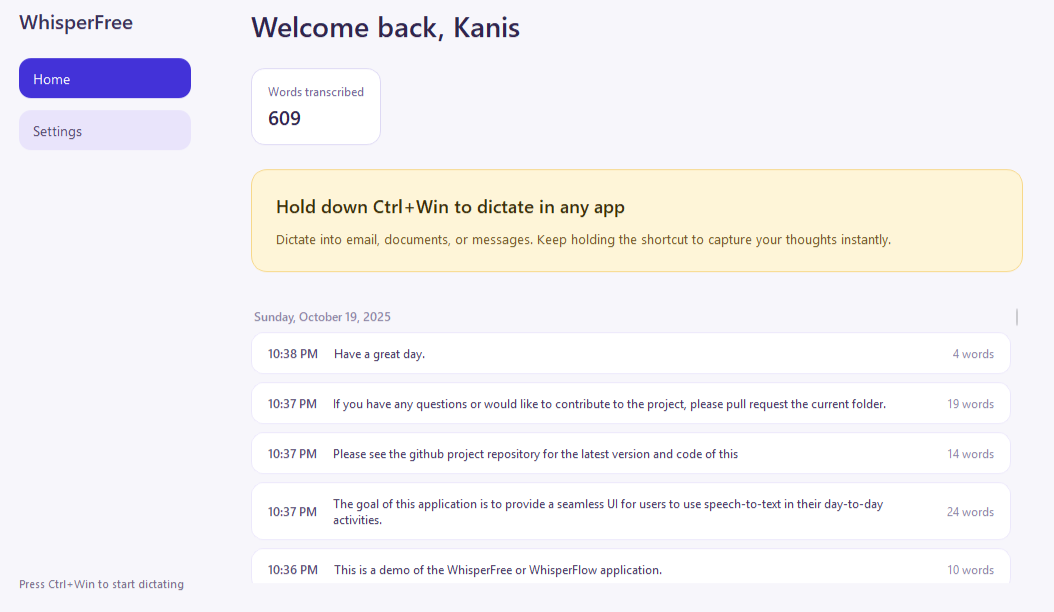
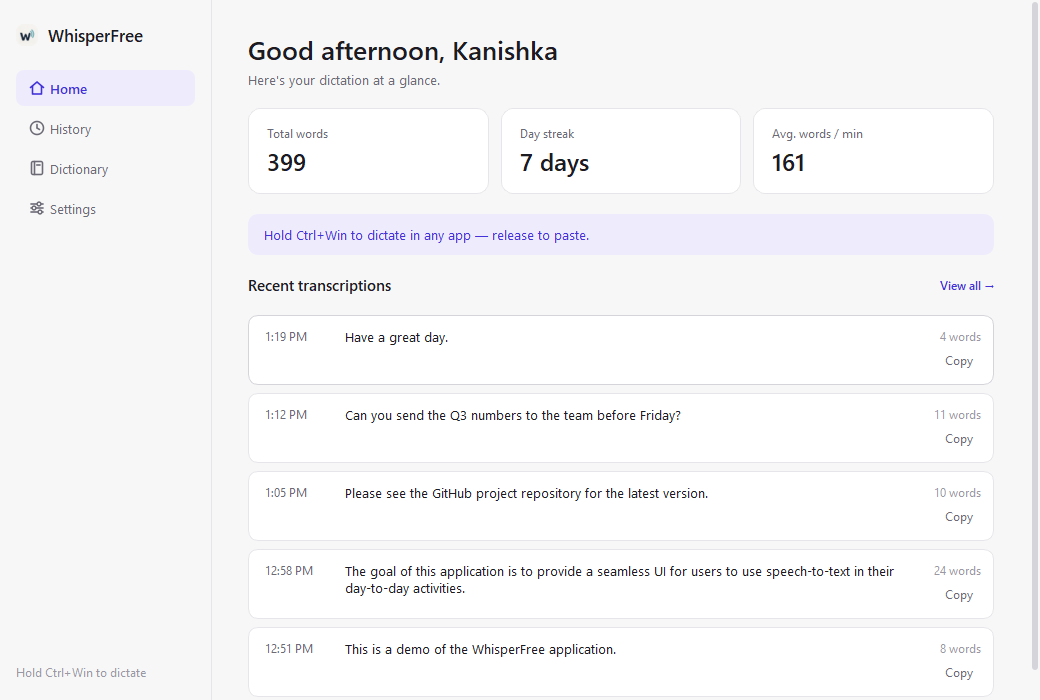
Refresh README and demo screenshot; harden .gitignore
- New demo screenshot of the current control panel (sample data only).
- README: fix Python version contradiction, add dictation sounds and
  tray behaviour, per-section Settings reference, data locations,
  accurate Security & Privacy (key saved to ~/.whisperfree/.env, history
  stored as plain text), rewritten dictation flow, updated layout and
  troubleshooting.
- .gitignore: ignore .env.* (keeping .env.example), app log, pytest cache,
  and local tooling folders.

diff --git a/README.md b/README.md
@@ -1,68 +1,28 @@
 # WhisperFree (WhisperFlow)
 
-WhisperFree is a Windows-first desktop companion that turns push-to-talk speech into clean text ready to paste anywhere. Hold `CTRL+WIN` to capture audio, release to stop, and OpenAI's transcription API (`gpt-transcribe` by default) handles transcription before WhisperFree pastes the result into the field that currently has focus. A minimal overlay shows recording status while a PyQt6 control panel manages microphones, service options, dictionary, and history.
+WhisperFree is a Windows-first desktop companion that turns push-to-talk speech into clean text ready to paste anywhere. Hold `CTRL+WIN` to record, release to stop, and OpenAI's transcription API (`gpt-transcribe` by default) turns your speech into text that WhisperFree pastes into whichever field has focus. A small overlay shows recording status, and a Voquill-style control panel manages your history, dictionary, and settings.
 
-Note: Currently supports Python 3.11 and Python 3.12. 
+Note: Supports Python 3.11 and 3.12 on Windows.
 
-![Alt text](/assets/demo.png)
+![WhisperFree control panel](/assets/demo.png)
 
 ## Features
-- Push-to-talk hotkey (`CTRL+WIN`) with debounce so recordings only begin when both keys are held and stop cleanly when released.
-- OpenAI transcription backend (`gpt-transcribe` by default; `gpt-4o-mini-transcribe` or legacy `whisper-1` selectable) with asynchronous transcription and toast feedback.
-- Persistent transcription history with daily grouping and rolling word counts.
-- Clipboard pipeline that copies the transcript, sends `Ctrl+V`, optionally presses `Enter`, and restores the previous clipboard.
-- PyQt6 system tray UI with microphone selectors, gain control, API testing, and an always-on-top overlay that animates or collapses to a thin idle line.
-- Voquill-style control panel with a sidebar and four pages:
-  - **Home** - greeting, stat cards (total words, day streak, average words/min), and the 5 most recent transcriptions.
+- **Push-to-talk** - hold `CTRL+WIN` to record and release to transcribe, with debounce so recording only starts when both keys are held.
+- **Dictation sounds** - a rising two-note chime when you press the hotkey and a falling one when you release it.
+- **OpenAI transcription** - `gpt-transcribe` by default; `gpt-4o-mini-transcribe` (cheapest) or legacy `whisper-1` can be picked in Settings.
+- **Paste anywhere** - copies the transcript, sends `Ctrl+V`, optionally presses `Enter`, then restores your previous clipboard.
+- **Control panel** with a sidebar and four pages:
+  - **Home** - greeting, stat cards (total words, day streak, average words/min), and your 5 most recent transcriptions.
   - **History** - searchable, day-grouped history with a copy button per entry; large histories render lazily so the page stays responsive.
-  - **Dictionary** - **Terms** are spelling hints (names, product words, acronyms) sent to the transcriber to improve recognition (as `keywords` for `gpt-transcribe`, as a glossary prompt for older models); **Replacements** are whole-word, case-insensitive "when I say X, paste Y" rules applied after transcription (a blank replacement removes the phrase entirely).
-  - **Settings** - General, Audio, Transcription, and OpenAI sections. Toggles, microphone, gain, and language apply instantly; the API key requires Save (or a successful Test) before it is persisted.
-- Launch on startup toggle (Settings -> General) that registers WhisperFree in `HKCU\Software\Microsoft\Windows\CurrentVersion\Run`.
-
-
-## Project Layout
-```
-whisperfree/
-  README.md
-  requirements.txt
-  .env.example
-  .gitignore
-  run_whisperfree.pyw
-  build.py
-  whisperfree/
-    __init__.py
-    app.py
-    config.py
-    hotkeys.py
-    audio.py
-    transcribe.py
-    paste.py
-    overlay.py
-    dictionary.py
-    startup.py
-    models.py
-    ui/
-      __init__.py
-      theme.py
-      window.py
-      home.py
-      history.py
-      dictionary.py
-      settings.py
-      widgets.py
-    utils/
-      __init__.py
-      levels_meter.py
-      logger.py
-  assets/
-    app_icon.ico
-  tests/
-    ...
-```
+  - **Dictionary** - **Terms** are spelling hints (names, product words, acronyms) sent to the transcriber to improve recognition (as `keywords` for `gpt-transcribe`, as a glossary prompt for older models). **Replacements** are whole-word, case-insensitive "when I say X, paste Y" rules applied after transcription; a blank replacement removes the phrase entirely.
+  - **Settings** - General, Audio, Transcription, and OpenAI sections.
+- **Launch on startup** - optional; registers WhisperFree to start when you sign in to Windows.
+- **Recording overlay** - an always-on-top indicator at the bottom of the screen that expands on hover and collapses to a thin line when idle.
+- **Runs from the tray** - closing the control panel keeps WhisperFree running; quit from the tray icon.
 
 ## Getting Started
-1. **Install prerequisites**  
-   Python 3.10-3.12, Git (optional). 
+1. **Install prerequisites**
+   Python 3.11 or 3.12, and Git (optional).
 2. **Clone or download**
    ```powershell
    git clone https://github.com/KRagula/WhisperFlow.git
@@ -75,58 +35,99 @@ whisperfree/
    python -m pip install --upgrade pip
    python -m pip install -r requirements.txt
    ```
-4. **Configure environment**  
-   Copy `.env.example` to `.env` and set `OPENAI_API_KEY` to use the OpenAI transcription API.
+4. **Add your OpenAI API key**
+   Either copy `.env.example` to `.env` and set `OPENAI_API_KEY`, or launch the app and paste the key into Settings -> OpenAI, then click **Test** or **Save key**.
 5. **Launch WhisperFree**
    ```powershell
    python -m whisperfree.app
    ```
-   A tray icon appears; right-click to open settings or quit.
+   A tray icon appears; right-click it to open the control panel or quit.
 
-## Configuration Highlights
-- **Microphone selector** - Populated from PortAudio; refresh to pick up devices that appear mid-session. Defaults back to the system device if the chosen device disappears.
-- **OpenAI transcription** - Settings -> Transcription -> Model picks the model: `gpt-transcribe` (recommended, $0.0045/min), `gpt-4o-mini-transcribe` (cheapest, $0.003/min), or legacy `whisper-1` ($0.006/min). Configs still on the old `whisper-1` default are moved to `gpt-transcribe` automatically.
-- **Input gain slider** - Apply gain live to accommodate quieter microphones.
-- **Overlay toggle** - Enable or hide the recording overlay without restarting the app.
-- **Dictation sounds** - A rising two-note chime plays when you press the hotkey and a falling one when you release it. Turn it off with Settings -> General -> Play sounds.
-- **Paste options** - Toggle `append newline after paste` and tune retry counts in the config file.
-- **Dictionary** - Terms and replacement rules persist to `~/.whisperfree/dictionary.json`; edits from the Dictionary page save immediately, no restart required.
-- **Launch on startup** - The Settings -> General toggle writes (or removes) the `WhisperFree` value under `HKCU\Software\Microsoft\Windows\CurrentVersion\Run`. Running from source it launches `pythonw.exe run_whisperfree.pyw` from the repo root; a PyInstaller build launches the built executable directly.
+To build a standalone Windows executable, run `python build.py` (PyInstaller); the output goes to `dist/WhisperFree/`.
 
-Settings persist to `~/.whisperfree/config.json`. Edit this file directly if you need to script deployments; most values refresh the next time you open settings, but General/Audio/Transcription/OpenAI settings changes in the control panel apply instantly (the OpenAI API key is the exception - it needs Save or a successful Test before it is written to disk).
+## Settings
+Changes in the control panel apply immediately, with no Save button and no restart. The one exception is the API key, which is only stored after **Save key** or a successful **Test**, so a half-typed key is never saved.
 
-WhisperFree keeps its data under `~/.whisperfree/`:
-- `config.json` - app settings
-- `history.jsonl` - transcription history
+- **General**
+  - **Launch on startup** - writes (or removes) the `WhisperFree` value under `HKCU\Software\Microsoft\Windows\CurrentVersion\Run`. Running from source it launches `pythonw.exe run_whisperfree.pyw` from the repo root; a PyInstaller build launches the built executable.
+  - **Show recording overlay** - show or hide the on-screen indicator.
+  - **Play sounds** - the press/release chimes.
+  - **Press Enter after pasting** - append a newline after each transcription.
+- **Audio**
+  - **Microphone** - populated from PortAudio; **Refresh** picks up devices plugged in mid-session. If the chosen device disappears, WhisperFree falls back to the system default.
+  - **Input gain** - boost or reduce microphone volume.
+- **Transcription**
+  - **Model** - `gpt-transcribe` (recommended, $0.0045/min), `gpt-4o-mini-transcribe` (cheapest, $0.003/min), or legacy `whisper-1` ($0.006/min). Configs still on the old `whisper-1` default are moved to `gpt-transcribe` automatically.
+  - **Language** - auto-detect, or pin the language you speak.
+- **OpenAI** - API key with **Show**, **Test**, and **Save key**.
+
+Paste retry counts can be tuned in `config.json`.
+
+## Where Your Data Lives
+Everything stays under `~/.whisperfree/` on your machine:
+- `config.json` - settings
+- `history.jsonl` - transcription history (plain text)
 - `dictionary.json` - dictionary terms and replacement rules
-- `.env` - OpenAI API key (optional; a repo-root `.env` also works)
+- `.env` - your OpenAI API key, if saved from the Settings page (a repo-root `.env` also works)
 - `whisperfree.log` - application log
 
-## Runtime Behaviour
-1. Hold `CTRL+WIN` - the overlay animates and audio buffers at 16 kHz mono.
-2. Release - WhisperFree stops recording, builds a WAV in memory, and sends it to the OpenAI transcription API.
-3. Paste - The recognized text is sent straight to the active window.
-4. Paste - WhisperFree updates the clipboard, issues `Ctrl+V`, optionally presses `Enter`, and restores the previous clipboard contents.
-5. Overlay returns to idle and a toast conveys success, fallbacks, or errors.
+## How a Dictation Works
+1. **Hold `CTRL+WIN`** - the start chime plays, the overlay switches to recording, and audio is captured at 16 kHz mono.
+2. **Release** - recording stops, the stop chime plays, and the audio is packaged as a WAV in memory.
+3. **Transcribe** - the WAV goes to the selected OpenAI model along with your dictionary terms.
+4. **Clean up** - dictionary replacement rules are applied to the text.
+5. **Paste** - WhisperFree puts the text on the clipboard, sends `Ctrl+V` (and `Enter` if enabled), then restores your previous clipboard.
+6. **Record** - the entry is added to History and the Home stats update; the overlay returns to idle.
 
-If an API call fails, WhisperFree surfaces a toast so you can retry once connectivity is restored. Microphone errors, silent recordings, and paste failures are surfaced non-intrusively with retries where sensible.
+Failures such as no speech, API errors, or a paste that didn't go through show a short toast on the overlay instead of interrupting you.
 
 ## Security & Privacy
-- Audio is sent to the OpenAI transcription API; recordings are held in memory only for the duration of the request.
-- No recordings are saved by default (toggle the debug path in code if required).
-- Clipboard contents are restored by default after pasting.
-- API keys stay in environment variables; nothing secret is written to disk unless you choose to export it.
+- Audio is sent to OpenAI for transcription and held in memory only for the duration of the request; recordings are never written to disk.
+- Transcription history is stored locally as plain text in `~/.whisperfree/history.jsonl`. Delete the file to clear it.
+- Your API key is read from the environment or a `.env` file. Saving it from the Settings page writes it to `~/.whisperfree/.env`. `.env` is git-ignored; never commit it.
+- Clipboard contents are restored after each paste.
+
+## Project Layout
+```
+WhisperFlow/
+  README.md
+  requirements.txt
+  .env.example
+  run_whisperfree.pyw     # windowless launcher used by Launch on startup
+  build.py                # PyInstaller build
+  assets/
+    app_icon.ico
+    demo.png
+  whisperfree/
+    app.py                # controller: hotkey -> record -> transcribe -> paste
+    config.py             # settings + migrations
+    models.py             # transcription models and languages
+    hotkeys.py            # Ctrl+Win push-to-talk listener
+    audio.py              # microphone capture
+    sounds.py             # press/release chimes
+    transcribe.py         # OpenAI transcription client
+    dictionary.py         # terms + replacement rules
+    history.py            # history store, streak and WPM stats
+    paste.py              # clipboard + Ctrl+V
+    startup.py            # Launch on startup (Windows Run key)
+    overlay.py            # recording overlay
+    ui/                   # control panel (theme, window, home, history, dictionary, settings, widgets)
+    utils/                # logging, level metering
+  tests/
+```
 
 ## Running Tests
 ```powershell
 py -3.11 -m pytest tests -q
 ```
 
+## Troubleshooting
+- **Nothing happens when I close the control panel** - that's expected; WhisperFree keeps running in the tray. Right-click the tray icon -> Quit to exit.
+- **Missing microphone** - choose "System Default" or click Refresh; WhisperFree falls back automatically when a named device vanishes.
+- **API errors** - open Settings -> OpenAI and click **Test** to check the key. If your account can't use the selected model, switch models in Settings -> Transcription.
+- **Launch on startup doesn't start the app** - make sure WhisperFree isn't disabled in Task Manager -> Startup apps. Turning the toggle off and on again clears that flag.
+- **Slow transcription** - check your network connection and OpenAI's service status.
+
 ## Stretch Ideas
 - Streaming partial captions while holding the hotkey.
-- Cross-platform hotkey/paste layers.
-
-## Troubleshooting
-- **Missing microphone** - Choose "System Default" or refresh the list; WhisperFree falls back automatically when a named device vanishes.
-- **API errors** - Verify `.env`.
-- **Slow transcription** - Check network connectivity and OpenAI service status; API retries are surfaced via toast notifications.
+- Cross-platform hotkey and paste layers.
